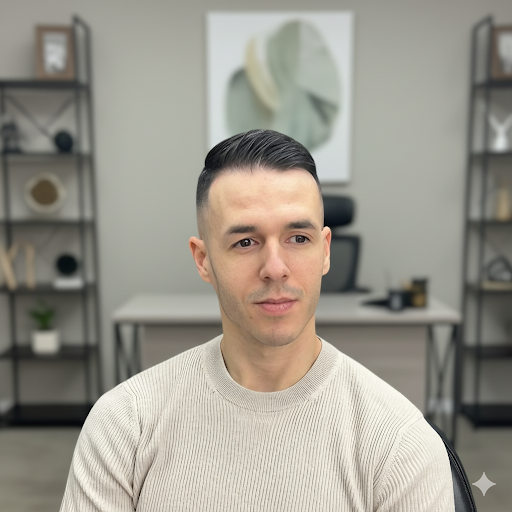
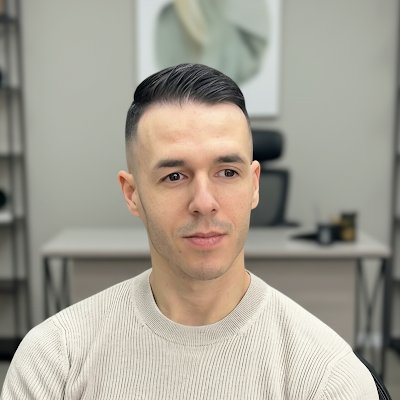
Update site content and profile photo.

diff --git a/index.html b/index.html
@@ -60,7 +60,8 @@
   .offer-icon{font-family:var(--serif);font-size:2rem;font-weight:300;color:var(--accent);line-height:1;min-width:1.5rem}
   .offer-block h3{font-size:1.1rem;margin-bottom:.4rem;color:var(--accent)}
   .offer-block p{font-size:.9rem;color:var(--ink-soft);margin-bottom:0}
-  .testimonial-grid{display:grid;grid-template-columns:repeat(auto-fit,minmax(260px,1fr));gap:1px;background:var(--rule);border:1px solid var(--rule);margin-top:2.5rem}
+  .testimonial-grid{display:grid;grid-template-columns:repeat(2,1fr);gap:1px;background:var(--rule);border:1px solid var(--rule);margin-top:2.5rem}
+  @media(max-width:600px){.testimonial-grid{grid-template-columns:1fr}}
   .testimonial{background:var(--white);padding:2rem}
   .testimonial-quote{font-family:var(--serif);font-size:1.08rem;font-weight:400;font-style:italic;line-height:1.7;color:var(--ink);margin-bottom:1.5rem}
   .testimonial-quote::before{content:'\201C';font-size:2.5rem;line-height:0;vertical-align:-.5rem;color:var(--accent);margin-right:.1rem;font-style:normal}
@@ -68,9 +69,10 @@
   .confidentiality-note{display:flex;gap:.75rem;align-items:flex-start;padding:1.1rem 1.5rem;border:1px solid var(--rule);background:var(--cream);margin-top:1.5rem}
   .confidentiality-note p{font-size:.85rem;color:var(--ink-muted);margin-bottom:0}
   .confidentiality-note p strong{color:var(--ink-soft)}
-  .about-block{display:grid;grid-template-columns:220px 1fr;gap:3rem;align-items:start;margin-top:2.5rem}
-  @media(max-width:640px){.about-block{grid-template-columns:1fr;gap:2rem}}
-  .about-photo{width:100%;aspect-ratio:1/1;object-fit:cover;object-position:center top;filter:grayscale(15%)}
+  .about-block{margin-top:2rem}
+  .about-block::after{content:'';display:table;clear:both}
+  .about-photo{float:left;width:220px;aspect-ratio:1/1;object-fit:cover;object-position:center top;margin:0 2.25rem 1.5rem 0;filter:grayscale(15%)}
+  @media(max-width:640px){.about-photo{float:none;width:100%;margin:0 0 1.5rem 0}}
   .about-stat-row{display:flex;gap:2.5rem;margin-top:1.75rem;padding-top:1.75rem;border-top:1px solid var(--rule);flex-wrap:wrap}
   .about-stat{display:flex;flex-direction:column;gap:.2rem}
   .about-stat-num{font-family:var(--serif);font-size:2rem;font-weight:300;color:var(--ink);line-height:1}
@@ -227,7 +229,11 @@
         </div>
         <div class="testimonial">
           <p class="testimonial-quote">English is my third language and I was spending as much time on the writing as on the research itself. Having a paper written from my notes and then revised to my feedback gave me back several weeks I needed for the empirical work.</p>
-          <div class="testimonial-attr">Senior Researcher, Marketing Strategy<br>University of Vienna</div>
+          <div class="testimonial-attr">Senior Researcher, Marketing Strategy</div>
+        </div>
+        <div class="testimonial">
+          <p class="testimonial-quote">Three of the four issues flagged in the developmental edit had been raised by reviewers in a previous rejection. Having them identified and addressed before resubmission made a direct difference. The paper was accepted in the next round.</p>
+          <div class="testimonial-attr">Lecturer in Organisational Behaviour</div>
         </div>
       </div>
     </div>
@@ -607,23 +613,21 @@
     <div class="container">
       <div class="about-block">
         <img class="about-photo" src="profile.png" alt="Martin Petkov">
-        <div>
-          <p>Martin Petkov has spent over 15 years writing and editing in academic and professional contexts. He has produced more than 3,600 pieces across formats: academic writing, technical reports, book-length research, and long-form business writing for international audiences in technology, finance, and management.</p>
-          <p>He is the author of a trilogy of books on artificial intelligence and the Metaverse, grounded in more than 1,200 academic sources spanning business strategy, organizational theory, and emerging technology. These services draw on that same standard of research rigour and precise, substantive writing applied to social science manuscripts at every stage of the writing and editing process.</p>
-          <div class="about-stat-row">
-            <div class="about-stat">
-              <span class="about-stat-num">15+</span>
-              <span class="about-stat-label">Years of academic &amp; business writing</span>
-            </div>
-            <div class="about-stat">
-              <span class="about-stat-num">3,600+</span>
-              <span class="about-stat-label">Published pieces across genres</span>
-            </div>
-            <div class="about-stat">
-              <span class="about-stat-num">1,200+</span>
-              <span class="about-stat-label">Academic sources, Metaverse trilogy</span>
-            </div>
-          </div>
+        <p>Martin Petkov has spent over 15 years writing and editing in academic and professional contexts. He has produced more than 3,600 pieces across formats: academic writing, technical reports, book-length research, and long-form business writing for international audiences in technology, finance, and management.</p>
+        <p>He is the author of a trilogy of books on artificial intelligence and the Metaverse, grounded in more than 1,200 academic sources spanning business strategy, organizational theory, and emerging technology. These services draw on that same standard of research rigour and precise, substantive writing applied to social science manuscripts at every stage of the writing and editing process.</p>
+      </div>
+      <div class="about-stat-row">
+        <div class="about-stat">
+          <span class="about-stat-num">15+</span>
+          <span class="about-stat-label">Years of academic &amp; business writing</span>
+        </div>
+        <div class="about-stat">
+          <span class="about-stat-num">3,600+</span>
+          <span class="about-stat-label">Pieces across genres</span>
+        </div>
+        <div class="about-stat">
+          <span class="about-stat-num">1,200+</span>
+          <span class="about-stat-label">Academic sources, Metaverse trilogy</span>
         </div>
       </div>
     </div>